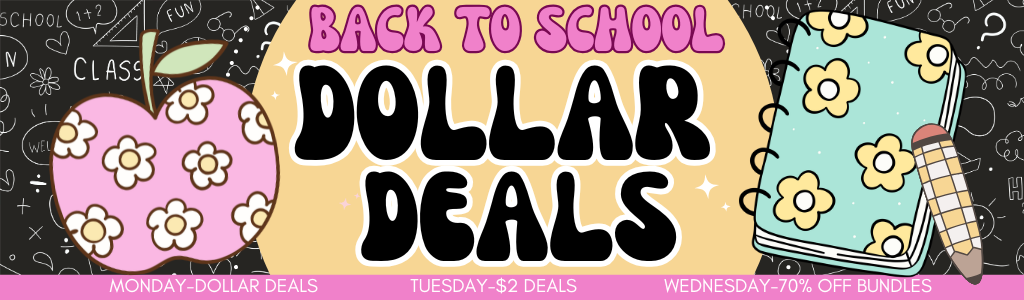
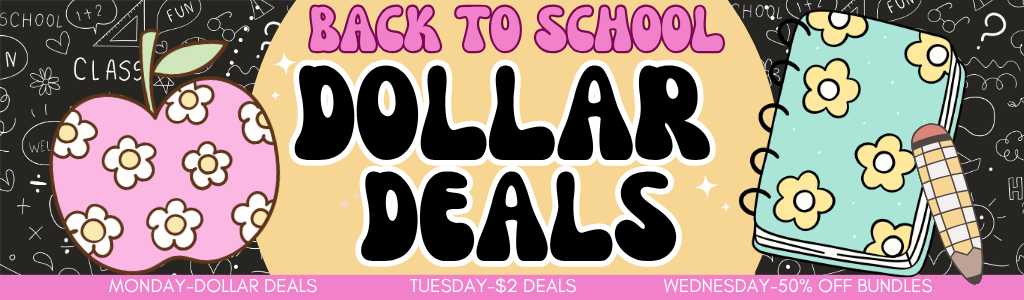
2026 BTS Deals Pages

diff --git a/menu/back-to-school-wednesday-deals.md b/menu/back-to-school-wednesday-deals.md
@@ -1,19 +1,7 @@
 ---
 layout: default
-title: Wednesday Bundle 70 Percent Off Deals
+title: Wednesday Bundle Half Off Deals
 image:
   feature: 2025BTSWednesday.png
 ---
 ![Banner]({{ site.github.url }}/assets/img/2025BTSWednesday.png)
-
-[![deal]({{ site.github.url }}/assets/img/2025-bts-collab13.jpg)](https://www.teacherspayteachers.com/Product/Color-by-Code-Activities-Color-by-Numbers-Letters-Addition-Sight-Words-CVC-7201729)
-
-[![deal]({{ site.github.url }}/assets/img/2025-bts-collab14.jpg)](https://www.teacherspayteachers.com/Product/NO-PREP-First-Grade-Activities-Packets-with-Emergency-Sub-Plans-Thematic-Units-10007232)
-
-[![deal]({{ site.github.url }}/assets/img/2025-bts-collab15.jpg)](https://www.teacherspayteachers.com/Product/Preschool-Kindergarten-Emergent-Readers-ABC-Order-Write-the-Room-Vocabulary-4769611)
-
-[![deal]({{ site.github.url }}/assets/img/2025-bts-collab16.jpg)](https://www.teacherspayteachers.com/Product/Kindergarten-Centers-Monthly-Sensory-Bins-and-Write-and-Wipe-Bundle-1968642)
-
-[![deal]({{ site.github.url }}/assets/img/2025-bts-collab17.jpg)](https://www.teacherspayteachers.com/Product/CVC-Word-Practice-Bundle-with-Word-Work-Games-Worksheets-Fluency-and-Centers-5060134?utm_source=Back%20to%20School%20Collab&utm_campaign=SFK%20Back%20to%20School%20Collab-%207-30-25%20Half%20off%20Bundle%20Deal-%20CVC%20Words%20Mega%20Bundle)
-
-[![deal]({{ site.github.url }}/assets/img/2025-bts-collab18.jpg)](https://www.teacherspayteachers.com/Product/Back-to-School-Activities-First-Week-of-School-Activities-BUNDLE-7001131)

diff --git a/menu/back-to-school-monday-deals.md b/menu/back-to-school-monday-deals.md
@@ -5,15 +5,3 @@ image:
   feature: 2025BTS Monday Dollar Deals Banner.png
 ---
 ![Banner]({{ site.github.url }}/assets/img/2025BTS Monday Dollar Deals Banner.png)
-
-[![deal]({{ site.github.url }}/assets/img/2025-bts-collab.jpg)](https://www.teacherspayteachers.com/Product/50-Off-48hr-Back-to-School-First-Grade-Morning-Work-August-Literacy-Math-13969473)
-
-[![deal]({{ site.github.url }}/assets/img/2025-bts-collab2.jpg)](https://www.teacherspayteachers.com/Product/Our-Class-is-a-Family-Craft-Bulletin-Board-Back-to-School-Activity-Kindness-Week-8373426)
-
-[![deal]({{ site.github.url }}/assets/img/2025-bts-collab3.jpg)](https://www.teacherspayteachers.com/Product/First-Week-of-School-First-Day-of-Kindergarten-Back-to-School-Packet-7103510)
-
-[![deal]({{ site.github.url }}/assets/img/2025-bts-collab4.jpg)](https://www.teacherspayteachers.com/Product/Back-to-School-August-Unscramble-Fix-the-Sentence-Builder-Cut-Paste-Worksheets-3249352?utm_source=BTS%20COLLAB&utm_campaign=Back%20to%20School%20Sentence%20Puzzles)
-
-[![deal]({{ site.github.url }}/assets/img/2025-bts-collab5.jpg)](https://www.teacherspayteachers.com/Product/Good-vs-Bad-Choices-Behavior-Picture-Sort-and-Worksheet-First-Day-Activity-3920195?utm_source=Back%20to%20School%20Collab&utm_campaign=SFK%20Back%20to%20School%20Collab-%207-28-25%20Dollar%20Deal-%20Good%20vs%20Bad%20Choices%20Behavior%20Sort)
-
-[![deal]({{ site.github.url }}/assets/img/2025-bts-collab6.jpg)](https://www.teacherspayteachers.com/Product/Simple-Monthly-Newsletter-Templates-EDITABLE-8375865)

diff --git a/menu/back-to-school-tuesday-deals.md b/menu/back-to-school-tuesday-deals.md
@@ -6,14 +6,3 @@ image:
 ---
 ![Banner]({{ site.github.url }}/assets/img/2025BTS_TuesdayBanner.png)
 
-[![deal]({{ site.github.url }}/assets/img/2025-bts-collab7.jpg)](https://www.teacherspayteachers.com/Product/Kindergarten-Alphabet-Centers-Phonics-Letter-Games-Fine-Motor-Practice-Pre-K-3951107?utm_source=Back%20to%20School%20Collab&utm_campaign=SFK%20Back%20to%20School%20Collab-%207-29-25%20Two%20Dollar%20Deal-%20Alphabet%20Center%20Activities)
-
-[![deal]({{ site.github.url }}/assets/img/2025-bts-collab8.jpg)](https://www.teacherspayteachers.com/Product/Preschool-PreK-Kindergarten-Morning-Work-Worksheets-for-Homeschool-Binder-6297975?utm_source=BTS%20COLLAB&utm_campaign=PreK%20K%20Binders)
-
-[![deal]({{ site.github.url }}/assets/img/2025-bts-collab9.jpg)](https://www.teacherspayteachers.com/Product/Meet-the-Teacher-Night-and-Open-House-Scavenger-Hunt-Editable-3920966)
-
-[![deal]({{ site.github.url }}/assets/img/2025-bts-collab11.jpg)](https://www.teacherspayteachers.com/Product/Alphabet-Crafts-One-Page-Letter-Crafts-Preschool-Kindergarten-Beginning-Sounds-10796544)
-
-[![deal]({{ site.github.url }}/assets/img/2025-bts-collab12.jpg)](https://www.teacherspayteachers.com/Product/Alphabet-Worksheets-Alphabet-Tracing-Writing-Practice-Printables-ABC-Books-723765)
-
-[![deal]({{ site.github.url }}/assets/img/2025-bts-collab10.jpg)](https://www.teacherspayteachers.com/Product/CVC-Word-Family-Phonics-Practice-Books-Short-Vowel-Decodable-Passages-7281518)
